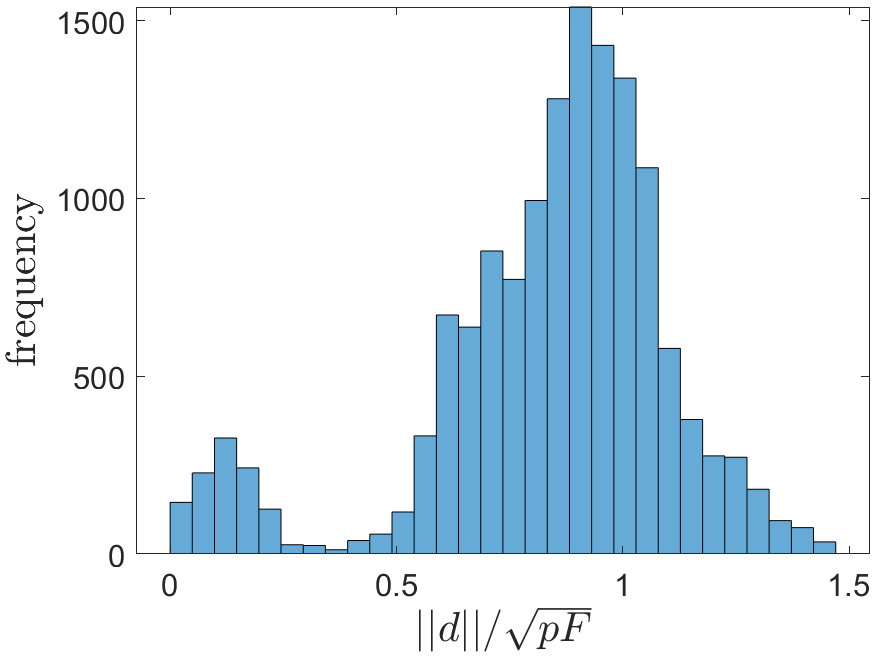
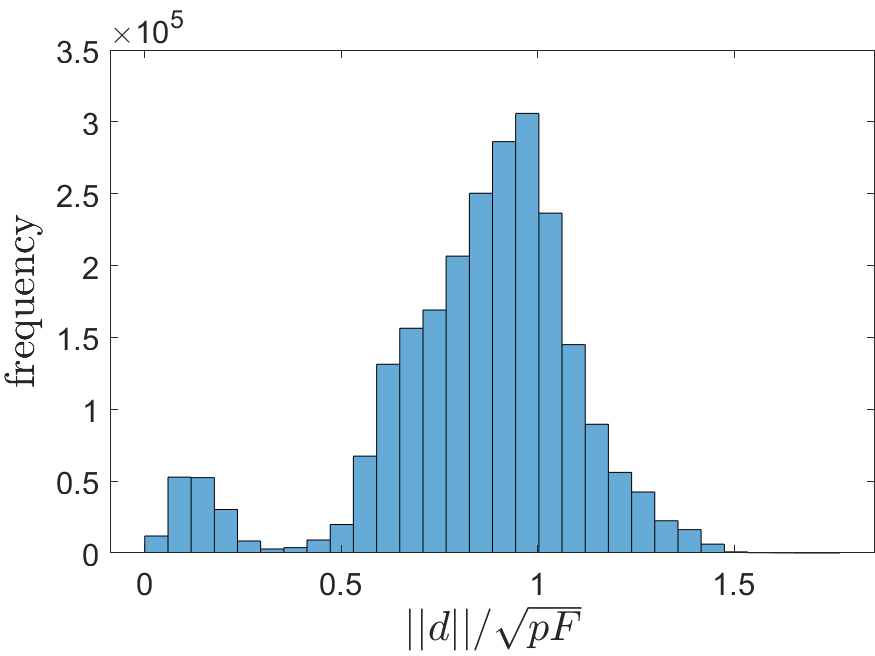
add plots

diff --git a/test_results/plots/plot_tunning.m b/test_results/plots/plot_tunning.m
@@ -15,7 +15,7 @@ data=data(randperm(size(data, 1)), :);
 x=data(:,1:p);
 n= ceil(1/0.7*m*(log(4*m)-log(0.01)));
 x_sub = x(1:n,:);
-d = pdist2(x_sub,x_sub);
+d = pdist2(x_sub,x);
 d = d./sqrt(8/3*p);
 histogram(d,30);
 %xlim([0,1])
